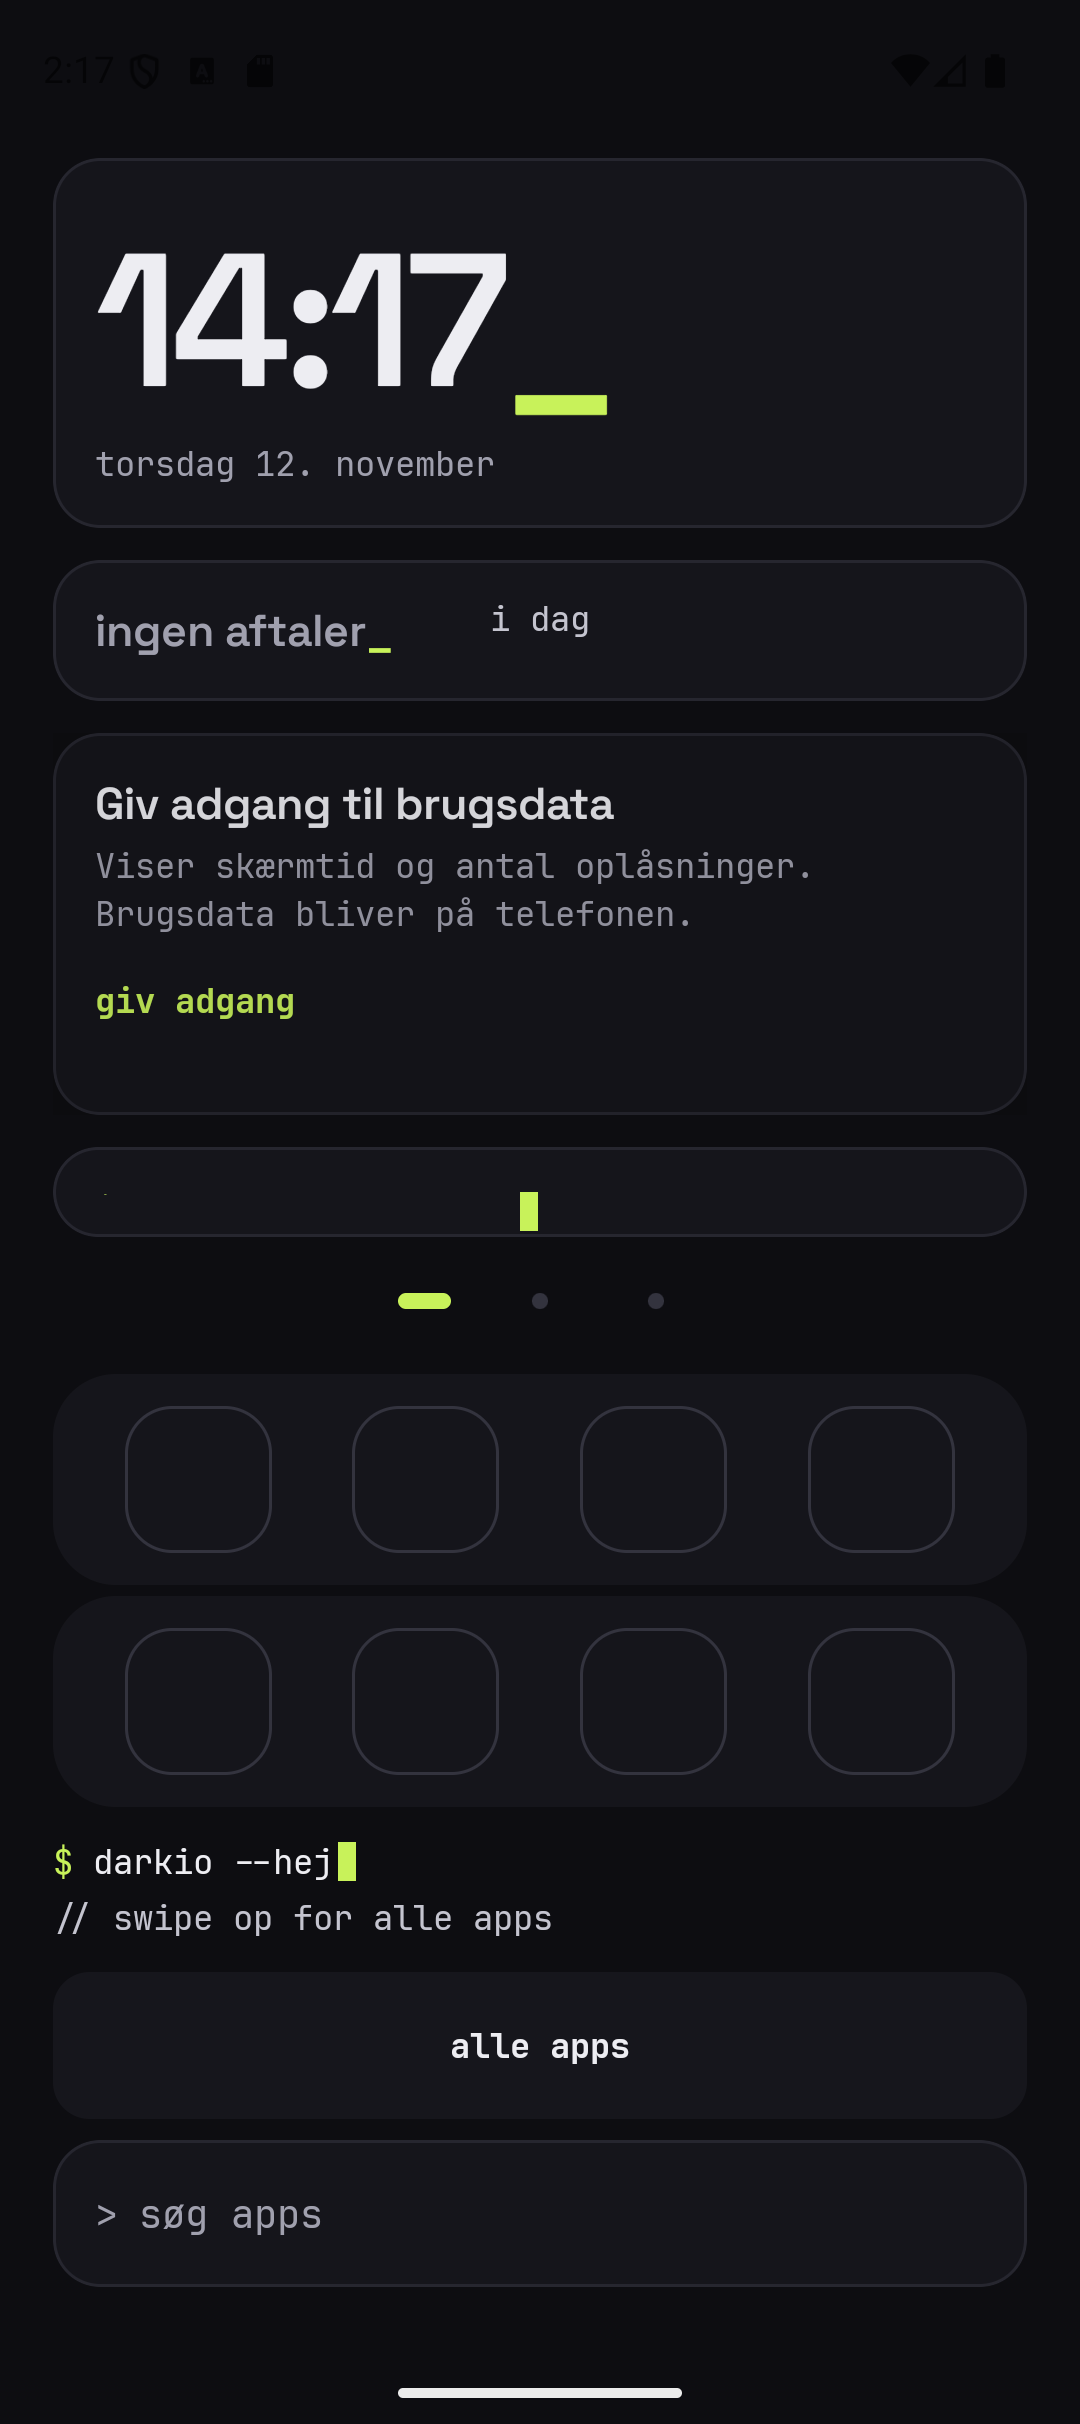
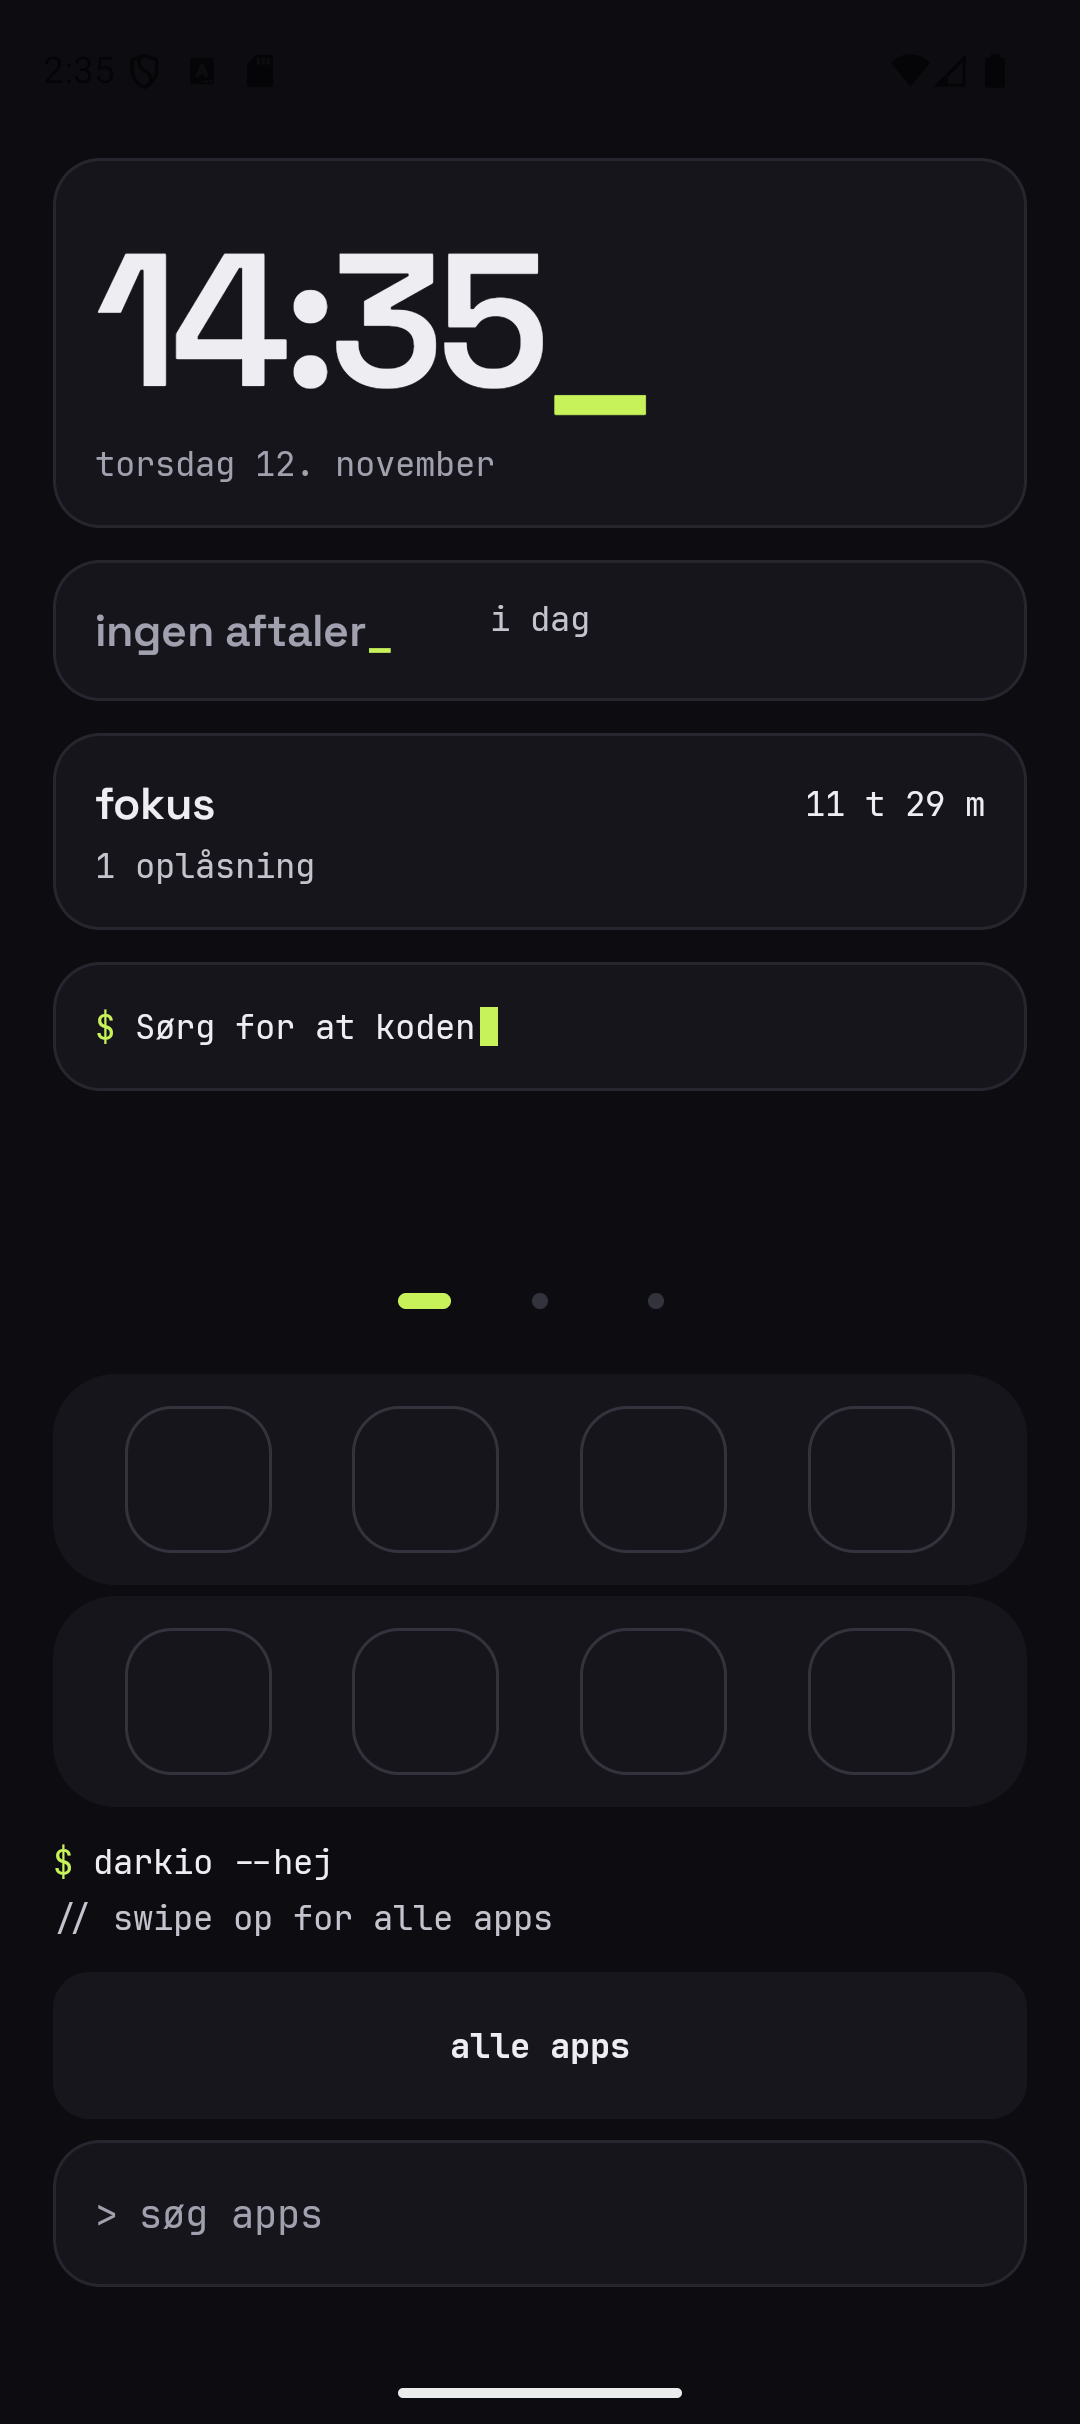
Juster kortafstand på side 0 så dagens tip altid er synligt
Brug DarkIOSpace.S2 mellem kortene på side 0 i overensstemmelse med design-system.md for at sikre plads til dagens tip-kort uanset adgangstilstande.

diff --git a/app/src/main/java/app/darkio/home/HomeScreen.kt b/app/src/main/java/app/darkio/home/HomeScreen.kt
@@ -165,11 +165,11 @@ fun HomeScreen(
                                     .padding(top = DarkIOSpace.TopInset),
                             ) {
                                 ClockCard()
-                                Spacer(Modifier.height(DarkIOSpace.S3))
+                                Spacer(Modifier.height(DarkIOSpace.S2))
                                 CalendarCard()
-                                Spacer(Modifier.height(DarkIOSpace.S3))
+                                Spacer(Modifier.height(DarkIOSpace.S2))
                                 FocusCard()
-                                Spacer(Modifier.height(DarkIOSpace.S3))
+                                Spacer(Modifier.height(DarkIOSpace.S2))
                                 TipCard()
                             }
                         } else if (p == 1) {
